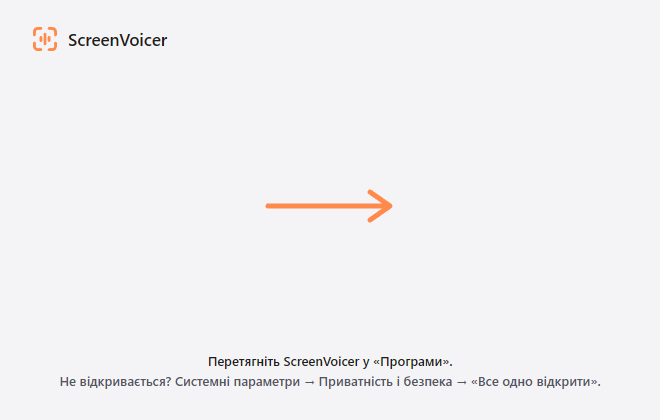
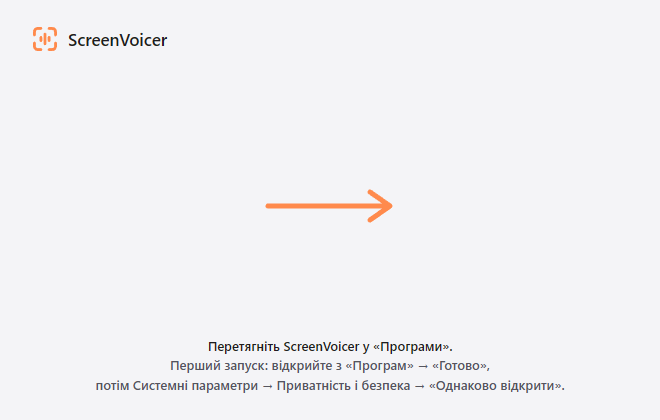
1.12.6: the toolbar stays while selecting, better recognition, update notice, easier Mac install
- Selecting a region no longer fades the toolbar; it moves to the bottom live
  as soon as the region reaches it (both apps).
- Recognition: the final pass uses beam search (5 on the GPU, 3 on the CPU)
  and a short prompt in the spoken language (uk/en), same text on both apps.
- After an update both apps show «ScreenVoicer оновлено до версії …»
  (LastRunVersion in the settings).
- Mac: the arrow cursor over the toolbar and flyouts; clearer screen
  recording permission text.
- Mac install: landing/install.sh (curl … | bash) installs and starts the
  app without the quarantine prompt; the site shows the command with a copy
  button; the DMG background and README explain the first launch step by
  step. Site: the region hint reads «потрібна частина екрана».

Changed region(s): [[0.0909, 0.8048, 0.9091, 0.9286]]

diff --git a/landing/index.html b/landing/index.html
@@ -170,6 +170,13 @@ h1, h2, h3 { font-weight: 650; text-wrap: balance; }
 .final h2 { font-size: clamp(36px, 5vw, 62px); line-height: 1.04; letter-spacing: -.035em; }
 .final .cta { margin-top: clamp(32px, 4vw, 44px); }
 .final .note { margin: 28px auto 0; max-width: 36em; font-size: 13px; color: var(--faint); }
+.mac-cmd { max-width: 40em; margin: 26px auto 0; font-size: 14px; color: var(--muted); }
+.mac-cmd > p:first-child { text-wrap: balance; }
+.mac-cmd .note { margin-top: 12px; }
+.cmd { display: flex; align-items: center; gap: 8px; margin: 12px auto 0; padding: 7px 7px 7px 14px; border-radius: 12px; background: #16161b; text-align: left; }
+.cmd code { flex: 1; min-width: 0; overflow-x: auto; white-space: nowrap; font: 500 13px/1.5 var(--mono); color: #ececf1; scrollbar-width: none; }
+.cmd-copy { flex: none; height: 32px; padding: 0 13px; border: 0; border-radius: 9px; background: rgba(255,255,255,.1); color: #f5f5f7; font: 600 12.5px var(--font); cursor: pointer; }
+.cmd-copy:hover { background: rgba(255,255,255,.16); }
 footer { padding: 0 0 48px; font-size: 13px; color: var(--faint); text-align: center; }
 
 /* reveal on scroll */
@@ -900,7 +907,12 @@ footer { padding: 0 0 48px; font-size: 13px; color: var(--faint); text-align: ce
         <a class="btn btn-secondary" data-os="mac" href="https://github.com/ArthurMospan/ScreenVoicer/releases/latest/download/ScreenVoicer-macOS.dmg"><svg aria-hidden="true"><use href="#i-apple"/></svg>Завантажити для Mac</a>
       </div>
       <p class="meta"><span>Безкоштовно</span><span>Без акаунта</span><span>Windows 10/11</span><span>macOS 14+</span></p>
-      <p class="note">Якщо Windows попередить про невідомого видавця, натисніть «Докладніше» → «Однаково запустити». На Mac перший запуск дозвольте в Системних параметрах → Приватність і безпека → «Все одно відкрити».</p>
+      <p class="note">Якщо Windows попередить про невідомого видавця, натисніть «Докладніше» → «Однаково запустити».</p>
+      <div class="mac-cmd">
+        <p>На Mac найпростіше: відкрийте Термінал, вставте команду й натисніть Enter — ScreenVoicer встановиться й запуститься сам.</p>
+        <div class="cmd"><code id="macCmd">curl -fsSL https://sv.mospan.com.ua/install.sh | bash</code><button type="button" class="cmd-copy" id="macCmdCopy">Копіювати</button></div>
+        <p class="note">Або з DMG: перетягніть ScreenVoicer у «Програми», відкрийте його й натисніть «Готово», потім Системні параметри → Приватність і безпека → «Однаково відкрити».</p>
+      </div>
     </div>
   </section>
 </main>
@@ -1359,7 +1371,7 @@ footer { padding: 0 0 48px; font-size: 13px; color: var(--faint); text-align: ce
 
   function SPEC(phone) {
     const a = [
-      { k: 'region', w: 34, html: `<span class="b on">${icon('region')}</span>`, ch: 1, n: '01', name: 'Область', hint: 'рамка й 8 ручок' },
+      { k: 'region', w: 34, html: `<span class="b on">${icon('region')}</span>`, ch: 1, n: '01', name: 'Область', hint: 'потрібна частина екрана' },
       { k: 'screen', w: 34, html: `<span class="b">${icon('screen')}</span>`, ch: 1, n: '01', name: 'Весь екран', hint: 'один клік' },
       { k: 'timer', w: 34, html: `<span class="b">${icon('timer')}</span>`, ch: 1, n: '01', name: 'Таймер', hint: '3 · 5 · 10 с' },
       { dv: 1 },
@@ -1690,6 +1702,17 @@ footer { padding: 0 0 48px; font-size: 13px; color: var(--faint); text-align: ce
     const upd = () => { o.textContent = `vw ${innerWidth} · doc ${root.scrollWidth} · body ${D.body.scrollWidth}` + (root.scrollWidth > innerWidth ? ' OVERFLOW' : ' ok'); };
     upd(); setTimeout(upd, 1500);
   }
+})();
+</script>
+<script>
+(() => {
+  const btn = document.getElementById('macCmdCopy'), cmd = document.getElementById('macCmd');
+  if (!btn || !cmd) return;
+  btn.addEventListener('click', async () => {
+    try { await navigator.clipboard.writeText(cmd.textContent); btn.textContent = 'Скопійовано'; }
+    catch { const r = document.createRange(); r.selectNodeContents(cmd); const sel = getSelection(); sel.removeAllRanges(); sel.addRange(r); btn.textContent = 'Виділено — Cmd+C'; }
+    setTimeout(() => { btn.textContent = 'Копіювати'; }, 2200);
+  });
 })();
 </script>
 </body>

diff --git a/mac/Sources/ScreenVoicer/Core/WhisperService.swift b/mac/Sources/ScreenVoicer/Core/WhisperService.swift
@@ -226,11 +226,24 @@ final class WhisperService {
         }
     }
 
+    static func prompt(for language: String) -> String? {
+        switch language {
+        case "uk": return "Коментар до знімка екрана: що не працює і що треба виправити."
+        case "en": return "A comment on a screenshot: what is broken and what needs fixing."
+        default: return nil
+        }
+    }
+
     /// Runs on the inference queue only.
     private func runSync(_ samples: [Float], preview: Bool) -> String {
         guard let model = active else { return "" }
         let input = AudioAnalysis.padForWhisper(AudioAnalysis.normalizeLevel(samples))
-        var params = whisper_full_default_params(WHISPER_SAMPLING_GREEDY)
+        // The final text weighs several candidates instead of taking the first word every time: noticeably fewer wrong
+        // words, at about twice the time; on the CPU a narrower beam keeps it bearable. Same as the Windows app.
+        var params = whisper_full_default_params(preview ? WHISPER_SAMPLING_GREEDY : WHISPER_SAMPLING_BEAM_SEARCH)
+        if !preview {
+            params.beam_search.beam_size = isRunningOnGpu ? 5 : 3
+        }
         params.n_threads = Int32(preview ? previewThreads : threads)
         params.print_progress = false
         params.print_realtime = false
@@ -251,10 +264,16 @@ final class WhisperService {
         }
 
         let lang = language.isEmpty ? "auto" : language
+        // A short sentence in the spoken language steers spelling and punctuation (and keeps Ukrainian from drifting
+        // into Russian words). Same text as the Windows app.
+        let prompt = Self.prompt(for: lang)
         let result: Int32 = lang.withCString { cLanguage in
-            params.language = cLanguage
-            return input.withUnsafeBufferPointer { buffer in
-                whisper_full(model.ctx, params, buffer.baseAddress, Int32(buffer.count))
+            (prompt ?? "").withCString { cPrompt in
+                params.language = cLanguage
+                if prompt != nil { params.initial_prompt = cPrompt }
+                return input.withUnsafeBufferPointer { buffer in
+                    whisper_full(model.ctx, params, buffer.baseAddress, Int32(buffer.count))
+                }
             }
         }
         guard result == 0 else {

diff --git a/installer/art.html b/installer/art.html
@@ -13,7 +13,7 @@
   .dmg .brand { position: absolute; left: 32px; top: 26px; display: flex; align-items: center; gap: 10px; color: #1D1D22; font: 600 17px/1 -apple-system, "SF Pro Text", "Segoe UI", sans-serif; }
   .dmg .brand svg { width: 26px; height: 26px; }
   .dmg .arrow { position: absolute; left: 262px; top: 186px; width: 136px; height: 40px; }
-  .dmg .hint { position: absolute; left: 0; right: 0; bottom: 30px; text-align: center; color: #55555F; font: 500 13px/1.5 -apple-system, "SF Pro Text", "Segoe UI", sans-serif; }
+  .dmg .hint { position: absolute; left: 40px; right: 40px; bottom: 26px; text-align: center; color: #55555F; font: 500 13px/1.5 -apple-system, "SF Pro Text", "Segoe UI", sans-serif; }
   .dmg .hint b { color: #1D1D22; font-weight: 600; }
 </style></head>
 <body>
@@ -26,7 +26,7 @@
     document.body.style.display = 'block';
     document.body.innerHTML = '<div class="dmg"><div class="brand">' + mark + 'ScreenVoicer</div>' +
       '<svg class="arrow" viewBox="0 0 136 40" aria-hidden="true"><path d="M6 20H126M108 6L128 20L108 34" fill="none" stroke="#ff8a4c" stroke-width="5" stroke-linecap="round" stroke-linejoin="round"/></svg>' +
-      '<div class="hint"><b>Перетягніть ScreenVoicer у «Програми».</b><br>Не відкривається? Системні параметри → Приватність і безпека → «Все одно відкрити».</div></div>';
+      '<div class="hint"><b>Перетягніть ScreenVoicer у «Програми».</b><br>Перший запуск: відкрийте з «Програм» → «Готово»,<br>потім Системні параметри → Приватність і безпека → «Однаково відкрити».</div></div>';
   }
 </script>
 </body></html>

diff --git a/mac/Sources/ScreenVoicer/Core/Settings.swift b/mac/Sources/ScreenVoicer/Core/Settings.swift
@@ -25,6 +25,8 @@ final class Settings {
     var permissionsGuideShown = false
     /// Launch at login was switched on once at first start (the Windows installer ticks it by default).
     var autostartInitialized = false
+    /// The version that ran last time: a newer one now means an update just finished.
+    var lastRunVersion: String?
 
     private let url: URL
     private let lock = NSLock()
@@ -55,6 +57,7 @@ final class Settings {
             updateNotifiedVersion = s.UpdateNotifiedVersion
             permissionsGuideShown = s.PermissionsGuideShown ?? false
             autostartInitialized = s.AutostartInitialized ?? false
+            lastRunVersion = s.LastRunVersion
             if let hk = s.Hotkey, HotkeyGesture.parse(hk) != nil {
                 hotkey = hk
             }
@@ -77,7 +80,8 @@ final class Settings {
             ModelHintShown: modelHintShown,
             UpdateNotifiedVersion: updateNotifiedVersion,
             PermissionsGuideShown: permissionsGuideShown,
-            AutostartInitialized: autostartInitialized)
+            AutostartInitialized: autostartInitialized,
+            LastRunVersion: lastRunVersion)
         do {
             let encoder = JSONEncoder()
             encoder.outputFormatting = [.prettyPrinted, .sortedKeys]
@@ -100,5 +104,6 @@ final class Settings {
         var UpdateNotifiedVersion: String?
         var PermissionsGuideShown: Bool?
         var AutostartInitialized: Bool?
+        var LastRunVersion: String?
     }
 }

diff --git a/mac/Sources/ScreenVoicer/Overlay/OverlayController.swift b/mac/Sources/ScreenVoicer/Overlay/OverlayController.swift
@@ -190,6 +190,10 @@ final class OverlayController: NSObject, NSTextFieldDelegate {
     }
 
     func cursor(at point: CGPoint) -> NSCursor {
+        // over the toolbar or an open flyout: the ordinary arrow, like on Windows (the chrome shares these coordinates)
+        if resizeHandle == nil, !isSelecting, model.hitRects.contains(where: { $0.contains(point) }) {
+            return .arrow
+        }
         if let handle = resizeHandle ?? hitHandle(point) {
             return Self.resizeCursor(handle)
         }
@@ -359,6 +363,7 @@ final class OverlayController: NSObject, NSTextFieldDelegate {
         let a = clampToRoot(CGPoint(x: left, y: top)), b = clampToRoot(CGPoint(x: right, y: bottom))
         selection = CGRect(x: min(a.x, b.x), y: min(a.y, b.y), width: abs(b.x - a.x), height: abs(b.y - a.y))
         updateSelectionVisuals()
+        repositionPanels()
     }
 
     private func endResize() {
@@ -486,6 +491,7 @@ final class OverlayController: NSObject, NSTextFieldDelegate {
             selection = CGRect(x: min(dragStart.x, clampToRoot(point).x), y: min(dragStart.y, clampToRoot(point).y),
                                width: abs(clampToRoot(point).x - dragStart.x), height: abs(clampToRoot(point).y - dragStart.y))
             updateSelectionVisuals()
+            repositionPanels() // the bar stays visible and moves down as soon as the region reaches it
             return
         }
         if let item = dragItem {

diff --git a/mac/Sources/ScreenVoicer/AppDelegate.swift b/mac/Sources/ScreenVoicer/AppDelegate.swift
@@ -74,7 +74,17 @@ final class AppDelegate: NSObject, NSApplicationDelegate, MenuHost {
                 showPermissions()
             }
         }
-        if WhisperService.isModelDownloaded(whisper.selectedModel.id) {
+        // After an update the new version says so: otherwise nothing shows that it was installed.
+        let version = AppInfo.version
+        let updated = settings.lastRunVersion.map { $0 != version } ?? false
+        if settings.lastRunVersion != version {
+            settings.lastRunVersion = version
+            settings.save()
+        }
+        if updated {
+            ToastCenter.shared.showToast("ScreenVoicer оновлено до версії " + version,
+                                         "Готово, можна працювати: " + Self.hotkeyText + " — знімок екрана.", .success, 6000)
+        } else if WhisperService.isModelDownloaded(whisper.selectedModel.id) {
             ToastCenter.shared.showToast("ScreenVoicer працює в рядку меню",
                                          "\(Self.hotkeyText) — знімок екрана, затисніть Пробіл — голосовий коментар.", .info, 4000)
         }

diff --git a/mac/Sources/ScreenVoicer/UI/PermissionsWindow.swift b/mac/Sources/ScreenVoicer/UI/PermissionsWindow.swift
@@ -54,7 +54,7 @@ struct PermissionsView: View {
             .padding(.bottom, 18)
 
             permissionRow(icon: .screen, title: "Запис екрана",
-                          detail: "Щоб зробити знімок. Системні параметри → Приватність і безпека → Запис екрана й системного аудіо → увімкніть ScreenVoicer.",
+                          detail: "Щоб зробити знімок. Натисніть «Дозволити»: відкриються налаштування — увімкніть там перемикач біля ScreenVoicer. Apple не дає програмам вмикати його самим, а ScreenVoicer помітить це сам.",
                           granted: model.screen, action: "Дозволити", perform: model.allowScreen)
             permissionRow(icon: .mic, title: "Мікрофон",
                           detail: "Для голосового коментаря. Звук розпізнається тільки на цьому Mac і нікуди не надсилається.",

diff --git a/mac/Sources/ScreenVoicer/Overlay/OverlayChrome.swift b/mac/Sources/ScreenVoicer/Overlay/OverlayChrome.swift
@@ -131,8 +131,6 @@ struct OverlayChrome: View {
                 .frame(width: geo.size.width, height: geo.size.height)
                 .padding(.top, model.toolbarAtBottom ? 0 : 16 + model.topInset)
                 .padding(.bottom, model.toolbarAtBottom ? 24 : 0)
-                .opacity(model.panelsFaded ? 0.12 : 1)
-                .animation(.easeOut(duration: model.panelsFaded ? 0.12 : 0.18), value: model.panelsFaded)
 
                 if let flyout = model.openFlyout, let anchor = anchors[flyout] {
                     flyoutView(flyout)

diff --git a/mac/Sources/ScreenVoicer/Overlay/OverlayViews.swift b/mac/Sources/ScreenVoicer/Overlay/OverlayViews.swift
@@ -160,10 +160,6 @@ final class CanvasView: NSView {
         controller?.cursor(at: convert(event.locationInWindow, from: nil)) ?? .crosshair
     }
 
-    override func resetCursorRects() {
-        addCursorRect(bounds, cursor: .crosshair)
-    }
-
     override func draw(_ dirtyRect: NSRect) {
         guard let controller, let ctx = NSGraphicsContext.current?.cgContext else { return }
         if let clip, clip.isEmpty { return }

diff --git a/Services/WhisperTranscriptionService.cs b/Services/WhisperTranscriptionService.cs
@@ -587,12 +587,32 @@ namespace ScreenVoicer.Services
         /// the segment handlers per processor, so cancelling a run and immediately starting another one on the
         /// same processor leaked the old run's text into the new result.
         /// </summary>
+        internal static string? PromptFor(string? language) => language switch
+        {
+            "uk" => "Коментар до знімка екрана: що не працює і що треба виправити.",
+            "en" => "A comment on a screenshot: what is broken and what needs fixing.",
+            _ => null
+        };
+
         private async Task<string> RunCoreAsync(LoadedModel model, float[] samples, bool preview)
         {
             float[] input = AudioAnalysis.PadForWhisper(AudioAnalysis.NormalizeLevel(samples));
             var builder = model.Factory.CreateBuilder()
                 .WithThreads(preview ? _previewThreads : _threads)
                 .WithLanguage(string.IsNullOrWhiteSpace(Language) ? "auto" : Language);
+            // A short sentence in the spoken language steers spelling and punctuation (and keeps Ukrainian from drifting
+            // into Russian words). Same text as the Mac app.
+            if (PromptFor(Language) is string prompt)
+            {
+                builder = builder.WithPrompt(prompt);
+            }
+            if (!preview)
+            {
+                // The final text weighs several candidates instead of taking the first word every time: noticeably
+                // fewer wrong words, at about twice the time; on the CPU a narrower beam keeps it bearable.
+                var beam = (Whisper.net.BeamSearchSamplingStrategyBuilder)builder.WithBeamSearchSamplingStrategy();
+                builder = beam.WithBeamSize(model.OnGpu ? 5 : 3).ParentBuilder;
+            }
 
             if (preview)
             {

diff --git a/Services/SettingsService.cs b/Services/SettingsService.cs
@@ -24,6 +24,7 @@ namespace ScreenVoicer.Services
         public bool ModelHintShown { get; set; }
         public string? UpdateNotifiedVersion { get; set; }
         public bool TrayIconPromoted { get; set; }
+        public string? LastRunVersion { get; set; }
 
         public SettingsService(string? dataDirectory = null)
         {
@@ -67,6 +68,7 @@ namespace ScreenVoicer.Services
                 UseGpu = data.UseGpu ?? true;
                 ModelHintShown = data.ModelHintShown;
                 UpdateNotifiedVersion = data.UpdateNotifiedVersion;
+                LastRunVersion = data.LastRunVersion;
                 TrayIconPromoted = data.TrayIconPromoted;
                 if (!string.IsNullOrWhiteSpace(data.Hotkey) && HotkeyGesture.TryParse(data.Hotkey, out _))
                 {
@@ -96,6 +98,7 @@ namespace ScreenVoicer.Services
                         Hotkey = Hotkey,
                         ModelHintShown = ModelHintShown,
                         UpdateNotifiedVersion = UpdateNotifiedVersion,
+                        LastRunVersion = LastRunVersion,
                         TrayIconPromoted = TrayIconPromoted
                     };
 
@@ -122,6 +125,7 @@ namespace ScreenVoicer.Services
             public string? Hotkey { get; set; }
             public bool ModelHintShown { get; set; }
             public string? UpdateNotifiedVersion { get; set; }
+            public string? LastRunVersion { get; set; }
             public bool TrayIconPromoted { get; set; }
         }
     }

diff --git a/Views/OverlayWindow.xaml.cs b/Views/OverlayWindow.xaml.cs
@@ -525,6 +525,7 @@ namespace ScreenVoicer.Views
 
             _selection = new Rect(_dragStart, ClampToRoot(e.GetPosition(RootGrid)));
             UpdateSelectionVisuals();
+            RepositionPanels(); // the bar stays visible and moves down as soon as the region reaches it
         }
 
         private void OnSelectionMouseUp(object sender, MouseButtonEventArgs e)
@@ -687,6 +688,7 @@ namespace ScreenVoicer.Views
             // Rect(Point, Point) normalizes, so dragging an edge past the opposite one just flips the region
             _selection = new Rect(ClampToRoot(new Point(left, top)), ClampToRoot(new Point(right, bottom)));
             UpdateSelectionVisuals();
+            RepositionPanels();
         }
 
         private void EndResize()
@@ -780,6 +782,7 @@ namespace ScreenVoicer.Views
             InkDrawCanvas.Visibility = Visibility.Visible;
         }
 
+        /// <summary>While a region is dragged the panels stay visible but take no clicks (RepositionPanels keeps them clear).</summary>
         private void SetPanelsFaded(bool faded)
         {
             if (faded)
@@ -789,7 +792,6 @@ namespace ScreenVoicer.Views
             foreach (var panel in new FrameworkElement[] { Toolbar, StatusPill })
             {
                 panel.IsHitTestVisible = !faded;
-                panel.BeginAnimation(OpacityProperty, new DoubleAnimation(faded ? 0.12 : 1, TimeSpan.FromMilliseconds(faded ? 120 : 180)));
             }
         }
 
